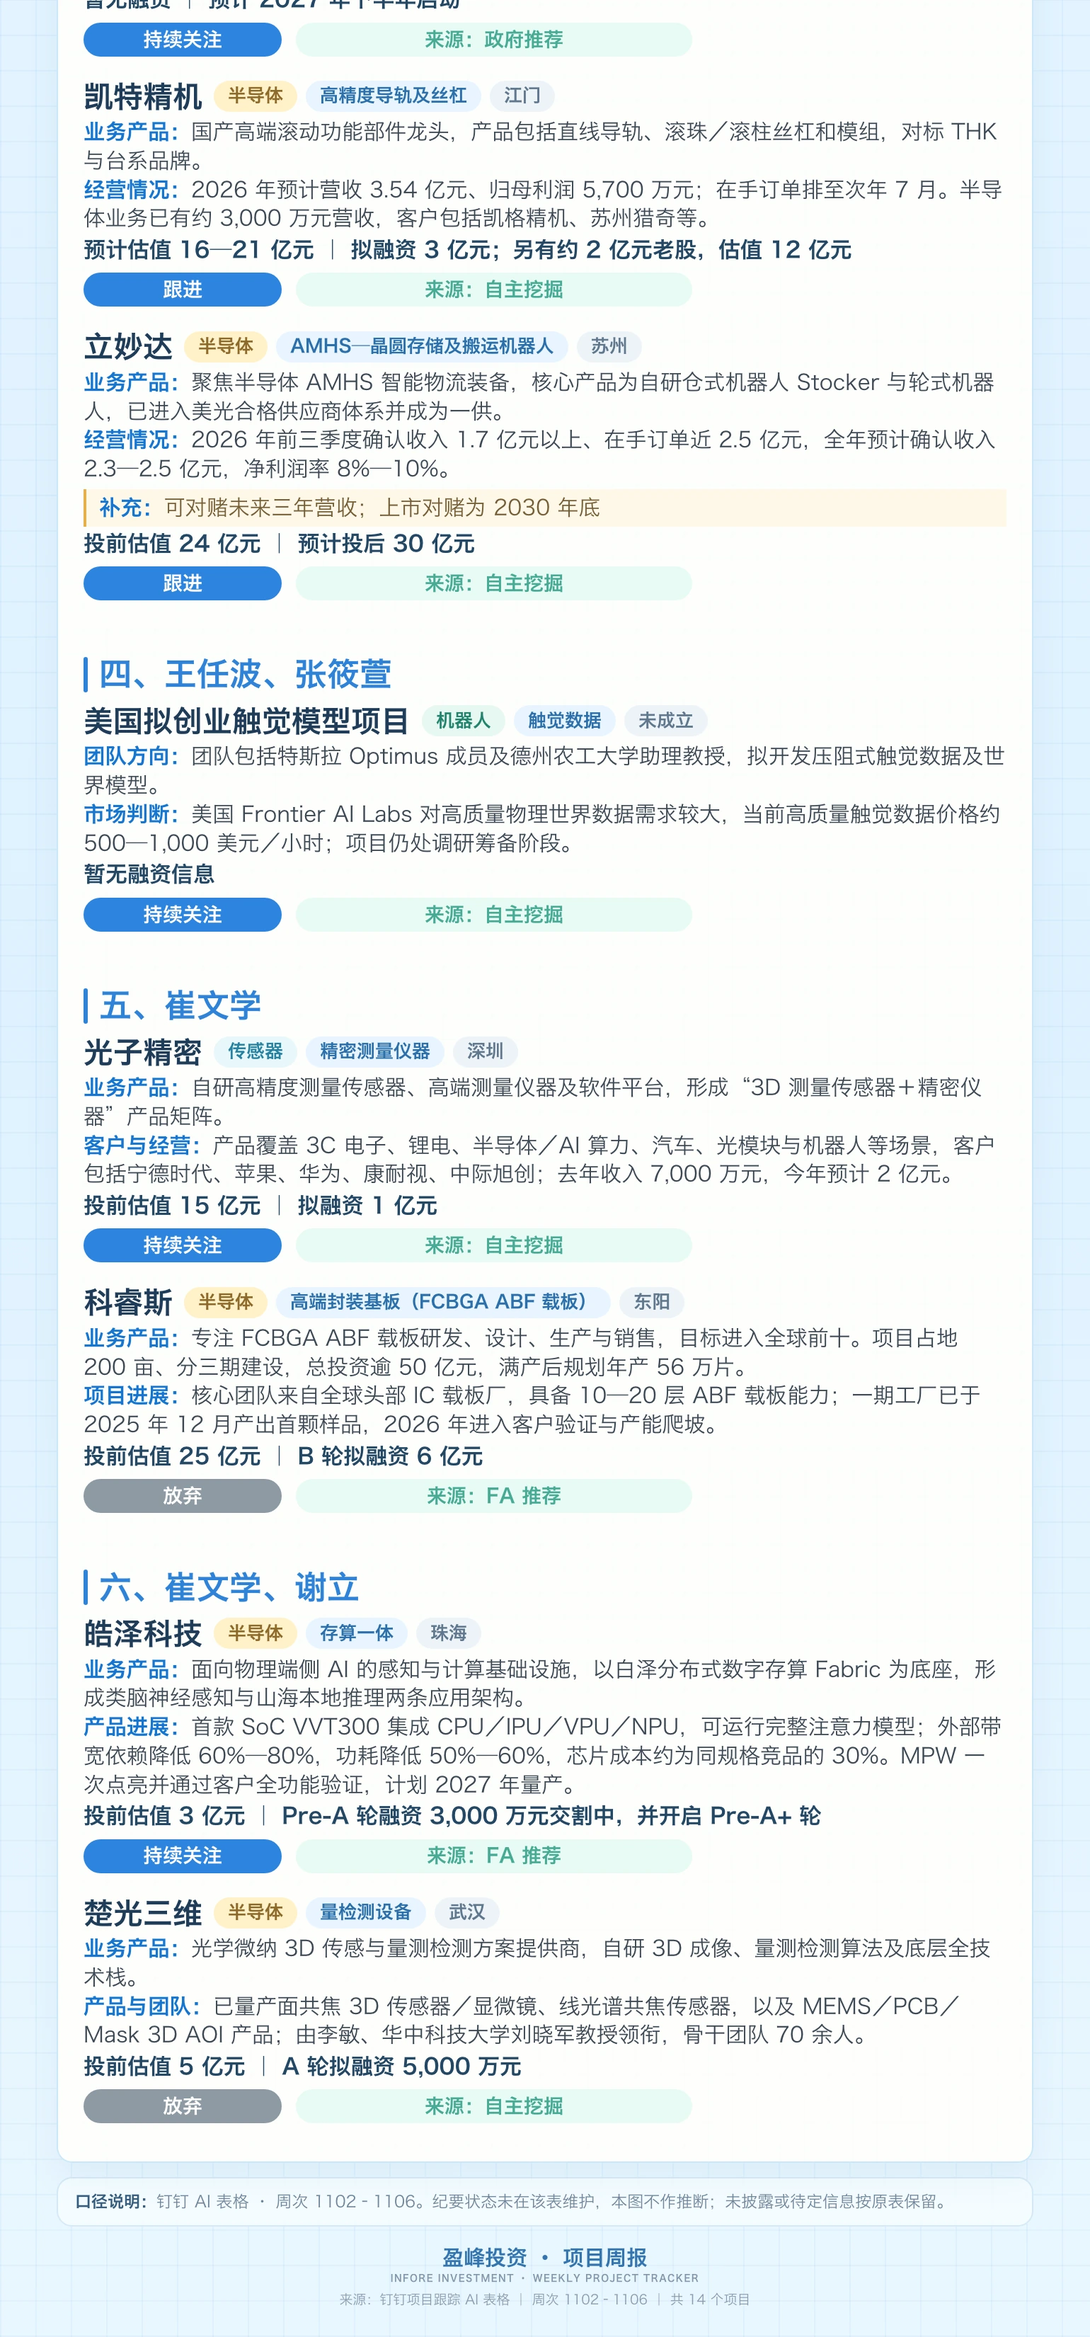
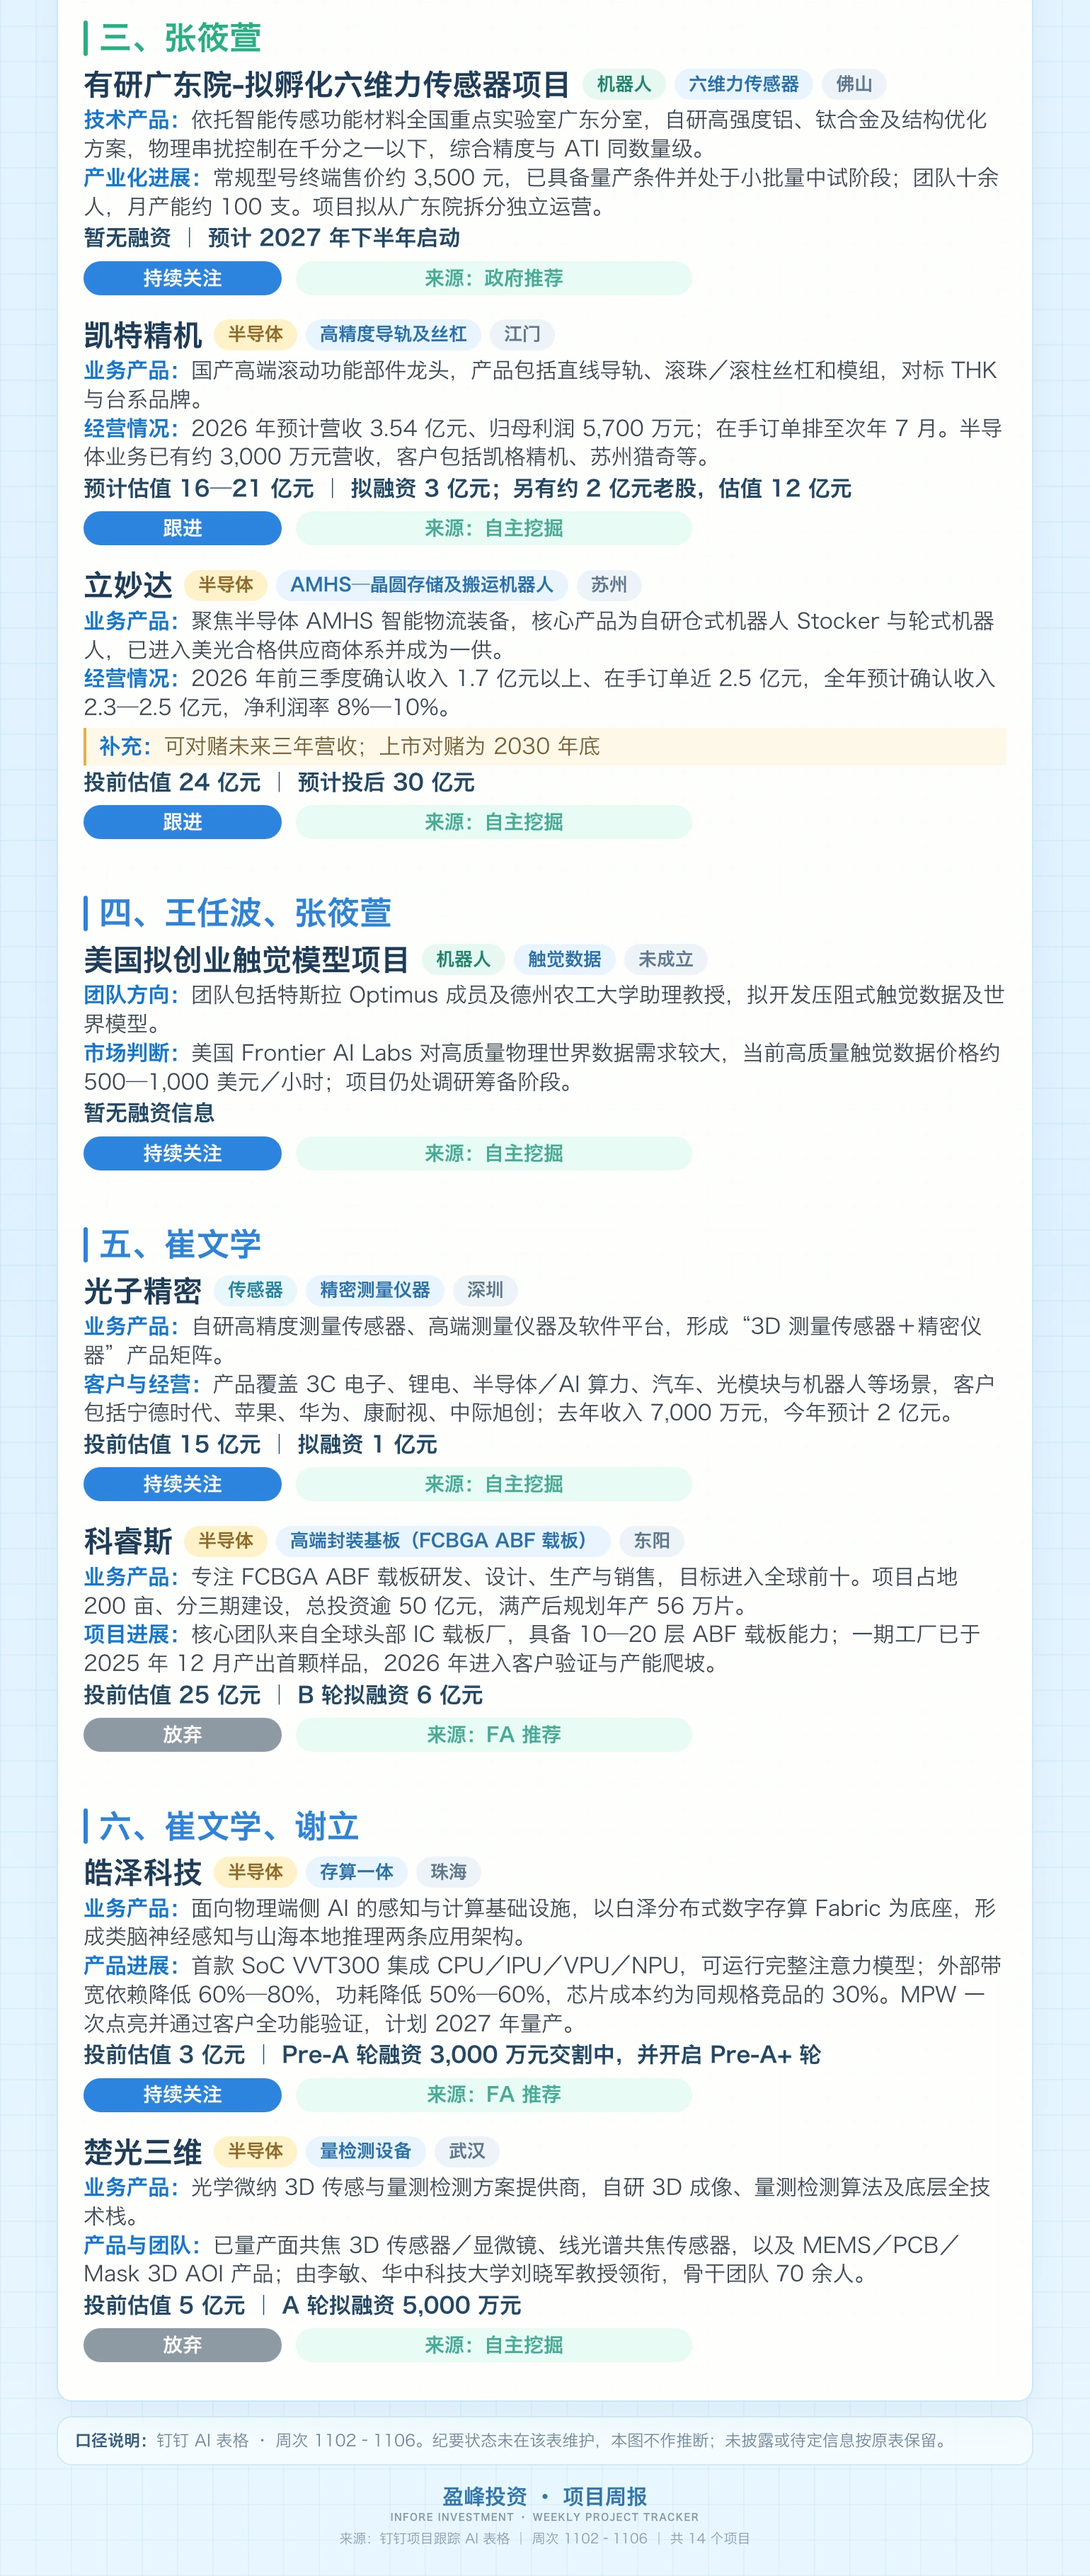
Split W45 project weekly by team boundaries

diff --git a/weekly-briefings/weekly-presentation.js b/weekly-briefings/weekly-presentation.js
@@ -1,7 +1,7 @@
 /* Both views use the complete weekly Markdown as their content source. */
 (() => {
   'use strict';
-  const SOURCE = '../weekly-reports/2026-W45.md?v=20261108-project-weekly';
+  const SOURCE = '../weekly-reports/2026-W45.md?v=20261109-semantic-project-weekly';
   const deck = document.getElementById('deck');
   const modeButton = document.getElementById('presentationToggle');
   const fullButton = document.getElementById('fullscreenToggle');
@@ -103,10 +103,11 @@
           const gallery = element('div', images.length > 1 ? 'weekly-image-pair' : 'weekly-image-single');
           images.forEach(image => {
             const card = element('figure', 'weekly-image-card');
-            const assetSrc = new URL('../' + image.src, location.href).href;
-            const anchor = link('', assetSrc);
+            const assetSrc = new URL('../' + image.src, location.href);
+            assetSrc.searchParams.set('v', '20261109-semantic');
+            const anchor = link('', assetSrc.href);
             const picture = element('img');
-            picture.src = assetSrc; picture.alt = image.alt; picture.width = 1540; picture.height = 3301;
+            picture.src = assetSrc.href; picture.alt = image.alt;
             picture.loading = 'lazy'; picture.decoding = 'async';
             anchor.append(picture); card.append(anchor, element('figcaption', 'weekly-image-caption', image.alt));
             gallery.append(card);

diff --git a/app.js b/app.js
@@ -648,9 +648,10 @@
           images.forEach(function (image) {
             var card = element('figure', 'weekly-image-card');
             var imageLink = element('a', 'weekly-image-link');
-            imageLink.href = image.src; imageLink.target = '_blank'; imageLink.rel = 'noopener noreferrer';
+            var versionedSrc = image.src + '?v=20261109-semantic';
+            imageLink.href = versionedSrc; imageLink.target = '_blank'; imageLink.rel = 'noopener noreferrer';
             var picture = element('img');
-            picture.src = image.src; picture.alt = image.alt; picture.width = 1540; picture.height = 3301;
+            picture.src = versionedSrc; picture.alt = image.alt;
             picture.loading = 'lazy'; picture.decoding = 'async';
             imageLink.appendChild(picture);
             card.appendChild(imageLink);

diff --git a/index.html b/index.html
@@ -85,6 +85,6 @@
 </div>
 <div id="liveStatus" class="sr-only" role="status" aria-live="polite"></div>
 <button id="backToTop" class="back-to-top" type="button" aria-label="回到顶部" title="回到顶部">↑</button>
-<script src="data.js?v=20261108-w45"></script><script src="company-profiles.js?v=20261105-october-products-r2"></script><script src="app.js?v=20261108-project-weekly"></script>
+<script src="data.js?v=20261108-w45"></script><script src="company-profiles.js?v=20261105-october-products-r2"></script><script src="app.js?v=20261109-semantic-project-weekly"></script>
 </body>
 </html>

diff --git a/weekly-briefings/2026-W45.html b/weekly-briefings/2026-W45.html
@@ -8,7 +8,7 @@
   <title>W45完整周报 · 盈峰投资</title>
   <link rel="icon" type="image/png" href="../assets/logo-mark.png">
   <link rel="stylesheet" href="weekly-presentation.css?v=20261108-project-weekly-2">
-  <script src="weekly-presentation.js?v=20261108-project-weekly-2" defer></script>
+  <script src="weekly-presentation.js?v=20261109-semantic-project-weekly" defer></script>
 </head>
 <body>
   <a class="skip-link" href="#deck">跳到周报正文</a>

diff --git a/weekly-reports/2026-W45.md b/weekly-reports/2026-W45.md
@@ -6,7 +6,7 @@
 
 信息截止：北京时间2026年11月8日11:30
 
-[打开完整周报演示模式](https://xiel0702-sketch.github.io/daily-report/weekly-briefings/2026-W45.html?view=slides&v=20261108-project-weekly)
+[打开完整周报演示模式](https://xiel0702-sketch.github.io/daily-report/weekly-briefings/2026-W45.html?view=slides&v=20261109-semantic-project-weekly)
 
 [下载完整 Word 周报](https://xiel0702-sketch.github.io/daily-report/downloads/%E7%9B%88%E5%B3%B0%E6%8A%95%E8%B5%84W45%E6%8A%95%E7%A0%94%E5%91%A8%E6%8A%A520261108.docx)
 
@@ -100,10 +100,10 @@ Nasdaq于美东11月6日（北京时间11月7日）发布的周评确认，11月
 
 ## 七、项目周跟踪
 
-本周项目跟踪共14个项目、6个团队分组；来源为自主挖掘10个、FA推荐3个、政府推荐1个。以下将完整长图分为上下两部分并列展示，点击图片可查看高清原图。
+本周项目跟踪共14个项目、6个团队分组；来源为自主挖掘10个、FA推荐3个、政府推荐1个。以下按团队分组边界分为两张展示，点击图片可查看高清原图。
 
-![项目周跟踪长图 · 上半部分](assets/project-weekly-20261102-1106-top.webp)
-![项目周跟踪长图 · 下半部分](assets/project-weekly-20261102-1106-bottom.webp)
+![项目周跟踪长图 · 团队一至二](assets/project-weekly-20261102-1106-top.webp)
+![项目周跟踪长图 · 团队三至六](assets/project-weekly-20261102-1106-bottom.webp)
 
 ## 八、关键来源
 
